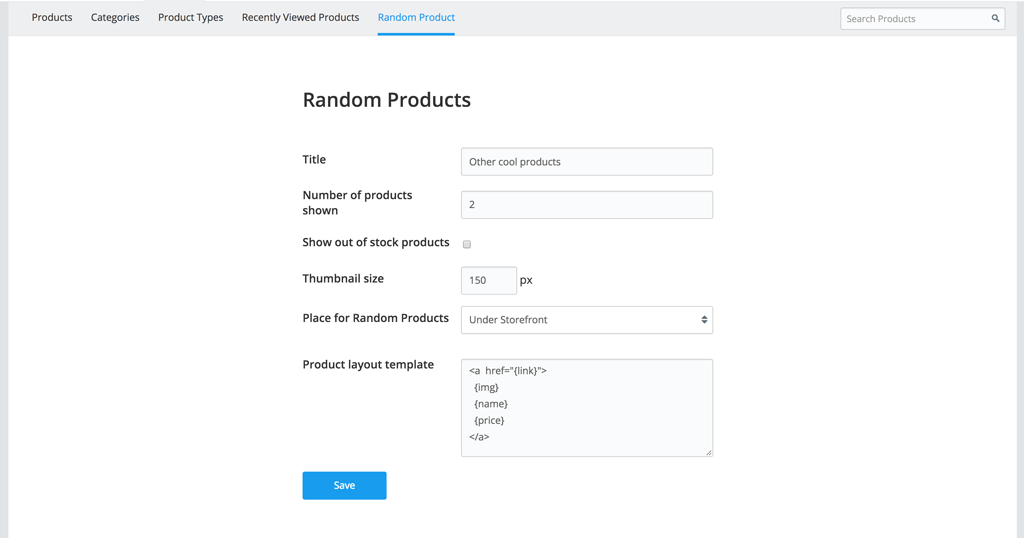
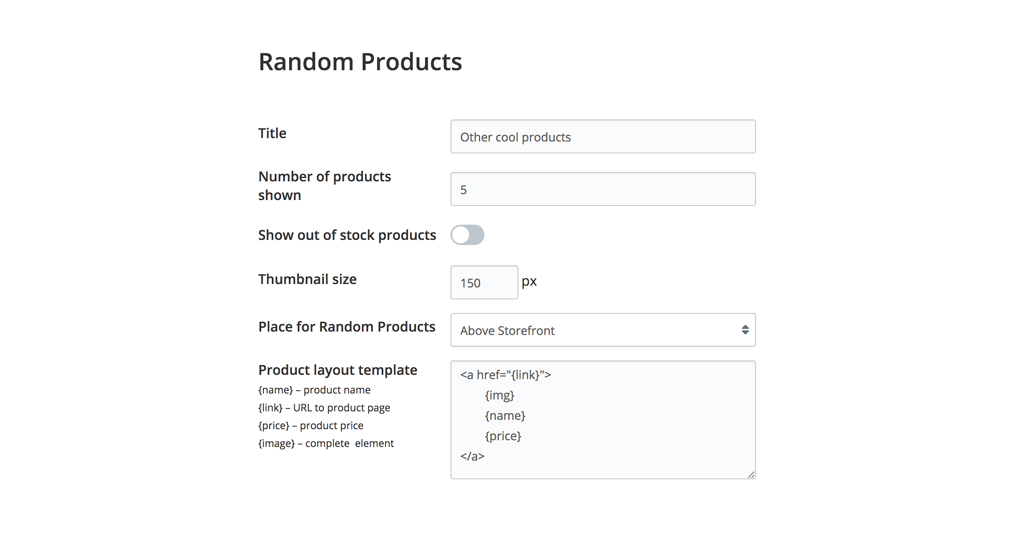
fixes initial state

diff --git a/src/random-product-admin.js b/src/random-product-admin.js
@@ -1,135 +1,143 @@
 (() => {
-  EcwidApp.init({
-    app_id: 'random-products',
-    autoloadedflag: true,
-    autoheight: true,
-  });
-
-  const labels = {
-    en: {
-      'random-product-title': 'Random Products',
-      'random-product-widget-title': 'Title',
-      'random-product-count': 'Number of products shown',
-      'random-product-offstock': 'Show out of stock products',
-      'random-product-thumbnail': 'Thumbnail size',
-      'random-product-place': 'Place for Random Products',
-      'random-product-layout': 'Product layout template',
-      'random-product-save': 'Save',
-      'random-product-above': 'Above Storefront',
-      'random-product-under': 'Under Storefront',
-      'random-product-custom': 'Custom container',
-      'random-product-saved': 'Settings were successfully saved!',
-      'random-product-custom-selector': 'CSS Selector'
-    },
-    ru: {
-      'random-product-title': 'Случайные товары',
-      'random-product-widget-title': 'Заголовок',
-      'random-product-count': 'Количество показываемых товаров',
-      'random-product-offstock': 'Показвать товары, которых нет в наличии',
-      'random-product-thumbnail': 'Размер картинок',
-      'random-product-place': 'Размещение виджета',
-      'random-product-layout': 'Шаблон виждета',
-      'random-product-save': 'Сохранить',
-      'random-product-above': 'Над товарами',
-      'random-product-under': 'Под товарами',
-      'random-product-custom': 'Другой контейнер',
-      'random-product-saved': 'Настройки успешно сохранены!',
-      'random-product-custom-selector': 'CSS селектор'
-    }
-  };
-
-  class Settings {
-    constructor(settings) {
-      this.title = settings.title;
-      this.category = settings.category || 'all';
-      this.count = settings.count || 1;
-      this.offstock = settings.offstock || false;
-      this.thumbSize = settings.thumbSize || 150;
-      this.place = settings.place || 'above';
-      this.container = settings.container || '.ecwid-productBrowser';
-      this.layout = settings.layout || '';
-    }
-  }
-
-  const setLabel = sel => lbls => { document.querySelector('#' + sel).innerText = lbls[sel]; };
-
-  const setLabels = (lbls) => {
-    ['random-product-title', 'random-product-widget-title', 'random-product-count', 'random-product-offstock',
-     'random-product-thumbnail', 'random-product-place', 'random-product-layout',
-     'random-product-save', 'random-product-custom-selector']
-      .forEach(i => setLabel(i)(lbls));
-    document.querySelector('#random-product-place-select').options[0].innerText = lbls['random-product-above'];
-    document.querySelector('#random-product-place-select').options[1].innerText = lbls['random-product-under'];
-    document.querySelector('#random-product-place-select').options[2].innerText = lbls['random-product-custom'];
-  };
-
-  const isBlockShown = el => (value) => {
-    el.style.display = (value === 'custom') ?  'block' : 'none';
-  };
-  const rvpForm = document.forms['random-settings'];
-  const customContainer = isBlockShown(document.querySelector('#random-product-custom-selector-container'));
-  customContainer(rvpForm['random-product-place-select'].value);
-  rvpForm['random-product-place-select'].addEventListener('change', (e) => {
-    customContainer(rvpForm['random-product-place-select'].value);
-  });
-
-  EcwidApp.getAppStorage('public', (value) => {
-    const param = JSON.parse(value);
-    const rvpSettings = new Settings(param);
-    console.log(rvpSettings);
-
-    rvpForm.title.value = rvpSettings.title;
-    // rvpForm.category.value = rvpSettings.category;
-    rvpForm.count.value = rvpSettings.count;
-    rvpForm.offstock.checked = rvpSettings.offstock;
-    rvpForm.thumbnail.value = rvpSettings.thumbSize;
-    rvpForm.layout.value = rvpSettings.layout;
-    rvpForm.querySelector('#random-product-place-select').value = rvpSettings.place;
-    rvpForm.selector.value = rvpSettings.container;
-    customContainer(rvpSettings.place);
-
-    // rvpForm.count.addEventListener('change', (e) => {
-    //   const val = parseInt(e.target.value, 10);
-    //   rvpForm.maximum.value = (val > 0 && val < 5) ? val : rvpSettings.maxItems;
-    // });
-
-    rvpForm.selector.addEventListener('change', (e) => {
-      if (e.target.value === '') {
-        rvpForm.selector.value = '.ecwid-productBrowser';
-      }
+    EcwidApp.init({
+        app_id: 'random-products',
+        autoloadedflag: true,
+        autoheight: true,
     });
-  });
 
-  const lang = (EcwidApp.getPayload().lang === 'ru') ? 'ru' : 'en';
-  setLabels(labels[lang]);
-
-  rvpForm.addEventListener('submit', (e) => {
-    e.preventDefault();
-    const newSettings =  {
-      title: e.target.title.value,
-      // category: e.target.category.value,
-      count: e.target.count.value,
-      offstock: e.target.offstock.checked,
-      thumbSize: e.target.thumbnail.value,
-      layout: e.target.layout.value,
-      place: e.target.querySelector('#random-product-place-select').value,
-      container: e.target.selector.value
+    const labels = {
+        en: {
+            'random-product-title': 'Random Products',
+            'random-product-widget-title': 'Title',
+            'random-product-widget-placeholder': 'Widget title',
+            'random-product-count': 'Number of products shown',
+            'random-product-offstock': 'Show out of stock products',
+            'random-product-thumbnail': 'Thumbnail size',
+            'random-product-place': 'Place for Random Products',
+            'random-product-layout': 'Product layout template',
+            'random-product-save': 'Save',
+            'random-product-above': 'Above Storefront',
+            'random-product-under': 'Under Storefront',
+            'random-product-custom': 'Custom container',
+            'random-product-saved': 'Settings were successfully saved!',
+            'random-product-custom-selector': 'CSS Selector'
+        },
+        ru: {
+            'random-product-title': 'Случайные товары',
+            'random-product-widget-title': 'Заголовок',
+            'random-product-widget-placeholder': 'Заголовок виджета',
+            'random-product-count': 'Количество показываемых товаров',
+            'random-product-offstock': 'Показвать товары, которых нет в наличии',
+            'random-product-thumbnail': 'Размер картинок',
+            'random-product-place': 'Размещение виджета',
+            'random-product-layout': 'Шаблон виждета',
+            'random-product-save': 'Сохранить',
+            'random-product-above': 'Над товарами',
+            'random-product-under': 'Под товарами',
+            'random-product-custom': 'Другой контейнер',
+            'random-product-saved': 'Настройки успешно сохранены!',
+            'random-product-custom-selector': 'CSS селектор'
+        }
     };
 
-    console.log(newSettings);
+    const settings = {
+        title: 'Other cool products',
+        // category: 'all',
+        count: 5,
+        offstock: false,
+        thumbnail: 150,
+        place: 'above',
+        container: '.ecwid-productBrowser',
+        layout: '<a href="{link}">\n\t{img}\n\t{name}\n\t{price}\n</a>'
+    };
 
+    const setLabel = sel => lbls => { document.querySelector('#' + sel).innerText = lbls[sel]; };
 
-    EcwidApp.setAppPublicConfig(JSON.stringify(newSettings), () => {
-      let alertMsg = document.querySelector('#random-product-settings .random-product-settings-saved-alert');
-      if (!alertMsg) {
-        alertMsg = document.createElement('div');
-        alertMsg.className = 'random-product-settings-saved-alert';
-        alertMsg.innerHTML = '<br/><div>' + labels[lang]['random-product-saved'] + '</div>';
-        document.querySelector('#random-settings').appendChild(alertMsg);
-      }
-      setTimeout(() => {
-        alertMsg.remove();
-      }, 5000);
+    const setLabels = (lbls) => {
+        ['random-product-title', 'random-product-widget-title', 'random-product-count', 'random-product-offstock',
+            'random-product-thumbnail', 'random-product-place', 'random-product-layout',
+            // 'random-product-save', 
+            'random-product-custom-selector'
+        ]
+        .forEach(i => setLabel(i)(lbls));
+        document.querySelector('#random-product-widget-placeholder').placeholder = lbls['random-product-widget-placeholder'];
+        document.querySelector('#random-product-place-select').options[0].innerText = lbls['random-product-above'];
+        document.querySelector('#random-product-place-select').options[1].innerText = lbls['random-product-under'];
+        document.querySelector('#random-product-place-select').options[2].innerText = lbls['random-product-custom'];
+    };
+
+    const isBlockShown = el => (value) => {
+        el.style.display = (value === 'custom') ? 'block' : 'none';
+    };
+
+    const saveSettings = (newSettings) => {
+        EcwidApp.setAppPublicConfig(JSON.stringify(newSettings), () => {
+            let alertMsg = document.querySelector('#random-settings .random-product-settings-saved-alert');
+            if (!alertMsg) {
+                alertMsg = document.createElement('div');
+                alertMsg.className = 'random-product-settings-saved-alert';
+                alertMsg.innerHTML = '<br/><div>' + labels[lang]['random-product-saved'] + '</div>';
+                document.querySelector('#random-settings').appendChild(alertMsg);
+            }
+            setTimeout(() => {
+                alertMsg.remove();
+            }, 5000);
+        });
+    };
+
+    const rvpForm = document.forms['random-settings'];
+    const customContainer = isBlockShown(document.querySelector('#random-product-custom-selector-container'));
+    customContainer(rvpForm['random-product-place-select'].value);
+    rvpForm['random-product-place-select'].addEventListener('change', (e) => {
+        customContainer(rvpForm['random-product-place-select'].value);
     });
-  });
+
+    EcwidApp.getAppStorage('public', (value) => {
+        const param = (value && JSON.parse(value)) || {};
+        const rvpSettings = Object.assign({}, settings, param);
+        saveSettings(rvpSettings);
+
+        rvpForm.title.value = rvpSettings.title;
+        // rvpForm.category.value = rvpSettings.category;
+        rvpForm.count.value = rvpSettings.count;
+        rvpForm.offstock.checked = rvpSettings.offstock;
+        rvpForm.thumbnail.value = rvpSettings.thumbnail;
+        rvpForm.layout.value = rvpSettings.layout;
+        rvpForm.querySelector('#random-product-place-select').value = rvpSettings.place;
+        rvpForm.container.value = rvpSettings.container;
+        customContainer(rvpSettings.place);
+
+        // rvpForm.count.addEventListener('change', (e) => {
+        //   const val = parseInt(e.target.value, 10);
+        //   rvpForm.maximum.value = (val > 0 && val < 5) ? val : rvpSettings.maxItems;
+        // });
+
+        ["count", "thumbnail", "layout", "container"].map( (i) => {
+            rvpForm[i].addEventListener('change', (e) => {
+                if (e.target.value === '') {
+                    e.target.value = settings[i];
+                }
+            });
+        });
+
+        document.querySelector('.random-settings-container.loading').classList.remove('loading');
+    });
+
+    const lang = (EcwidApp.getPayload().lang === 'ru') ? 'ru' : 'en';
+    setLabels(labels[lang]);
+
+    rvpForm.addEventListener('change', () => {
+        const newSettings = {
+            title: rvpForm.title.value,
+            // category: rvpForm.category.value,
+            count: rvpForm.count.value,
+            offstock: rvpForm.offstock.checked,
+            thumbnail: rvpForm.thumbnail.value,
+            layout: rvpForm.layout.value,
+            place: rvpForm.querySelector('#random-product-place-select').value,
+            container: rvpForm.container.value
+        };
+
+        saveSettings(newSettings);
+    });
 })();

diff --git a/src/components/Product.js b/src/components/Product.js
@@ -31,6 +31,12 @@ class Product extends Component {
       });
   }
 
+  componentDidUpdate() {
+    const event = document.createEvent('Event');
+    event.initEvent('productRendered', true, true);
+    this.base.dispatchEvent(event);
+  }
+
   render() {
     const visibility = (this.state.visible)? '' : 'display: none;';
     const cln = `random-product random-product--${this.props.id}`;
@@ -55,7 +61,7 @@ class Product extends Component {
     const classNames = this.props.layout.match(/^<a.*class="(.*?)"/);
     const newClassNames = (classNames) ? `${classNames} random-product__url` : 'random-product__url';
     const layout = this.props.layout.replace(/<a/, `<a class="${newClassNames}" data-url="{data_link}" href="{link}" `);
-    const replaceValue = (str, match) => console.log(match) || (values[match] || '');
+    const replaceValue = (str, match) => (values[match] || '');
 
     return { __html: layout.replace(/\{(.*?)\}/g, replaceValue) };
   }

diff --git a/src/random-product.js b/src/random-product.js
@@ -22,15 +22,14 @@ function init(allProducts, appSettings, apiSettings, container) {
   }
 
 	let App = require('./components/app').default;
-	render(<App items={randomProducts} appSettings={appSettings} apiSettings={apiSettings} rpUpdate={getRandomProducts} />, container);
+  render(<App items={randomProducts} appSettings={appSettings} apiSettings={apiSettings} rpUpdate={getRandomProducts} callback={window.randprod && window.randprod.callback} />, container);
 }
 
 const Ecwid = window.Ecwid;
 
 const appInit = async (apiSettings, appSettings) => {
   const products = await getProductsIds(apiSettings.storeId, apiSettings.token, appSettings.category, appSettings.offstock);
-  
-  console.log( products, appSettings);
+
   if (!products) {
     return;
   }

diff --git a/src/components/app.js b/src/components/app.js
@@ -8,7 +8,6 @@ class App extends Component {
   constructor(props) {
     super(props);
 
-    console.log(this.props);
     this.state = {
       rp: this.props.items,
     };
@@ -38,6 +37,7 @@ class App extends Component {
               id={item}
               layout={this.props.appSettings.layout}
               thumbSize={this.props.appSettings.thumbSize}
+              callback={this.props.callback}
             />)}
         </div>
       </div>
